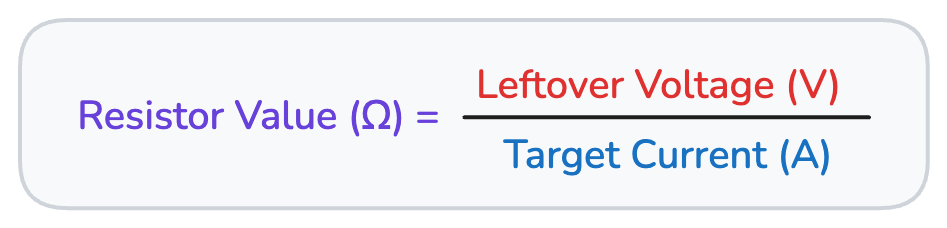
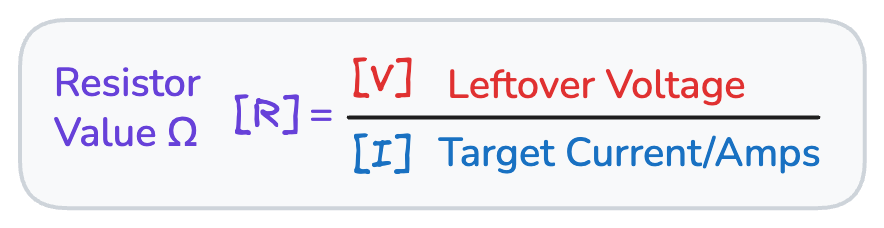
Lesson 3 Complete

diff --git a/Lesson-03.md b/Lesson-03.md
@@ -89,6 +89,8 @@ Your browser does not support the video tag.
 
 ![Wateerfall Analogy](images/L03/waterfall-explanation.png)
 
+> Note: the LED color change is for visual use. Refer to the LED Color Table in Step 6 for accurate color voltage.
+
 ### Step 4: Picking the Right Resistor (The "Goldilocks" Math)
 
 - **Concept**: The resistor’s job is to "soak up" the leftover voltage so the LEDs don't get too much and "pop."
@@ -114,34 +116,98 @@ Your browser does not support the video tag.
 
 - **Tinkercad Tip**: If you ever forget the standard amperage for an LED, you can "overload" the circuit in Tinkercad until the LED pops. If you hover your mouse over the "popped" LED, a small note will appear telling you: "Current through the LED is X, while absolute maximum is 20mA." That **20mA** is your "Magic Number."
 
+<video
+  src="video/L03/L03-TinkerCAD-Find-Component-Amperage.mp4"
+  controls
+  playsinline
+  preload="metadata"
+  width="100%"
+  style="max-width: 900px; height: auto; border-radius: 8px;">
+Your browser does not support the video tag.
+<a href="video/L03/L03-TinkerCAD-Find-Component-Amperage.mp4">Download the video</a>.
+</video>
+
 ### Step 6: Ohm’s Law (The Resistor Balance)
 
 - **Concept**: Now we use a simple equation to pick the perfect resistor so our LED gets exactly the flow it needs without popping.
 - **The Equation**:
-  Resistor Value (Ω) = Leftover Voltage (V) ÷ Target Current (A)
+  Ω Resistor Value (R) = Leftover Voltage (V) ÷ Target Current / Amps (I)
+
+  > The letter (I) is used instead of (A) or "Current/Amps" to mean **"Instensity"**
 
 ![Ohm's Law Finding the Resistance](images/L03/ohms-law-resistance.png)
 
-- **Experiment 1: The Single LED Test**
-  1. Build a circuit with a 9V battery, a 1kΩ resistor, and 1 LED.
-  2. Before you close the circuit to the ground, insert a **Multimeter** at the end.
-  3. Set the Multimeter to **Amperage (A)** mode.
-  4. **The Math**: We want 0.020A. With a 9V battery and a 2V LED, we have 7V left to soak up.
-     Calculation: 7V ÷ 0.020A = 350Ω.
-  5. Change your 1kΩ resistor to 350Ω. Your Multimeter should now read right around 20mA!
+- ### **Experiment 1: The Single LED Test**
 
-- **Experiment 2: The 4 LED Series Chain**
-  1. Clear your breadboard. Connect your 9V battery to a string of 4 LEDs in series (use jumper wires to connect the "negative" leg of one LED to the "positive" leg of the next).
-  2. Add the Multimeter after the 4th LED, then connect the other side of the Multimeter to the battery's Ground.
-  3. **The Math**: Each LED takes 2V, so 4 LEDs = 8V. Leftover: 9V - 8V = 1V.
-     Calculation: 1V ÷ 0.020A = 50Ω.
-  4. Place a 50Ω resistor between the Power (Positive) and the first LED.
-  5. Run the simulator. Your Multimeter should read 20mA!
+Build a circuit on a Small Breadboard with a 9V battery, a 1kΩ resistor, and 1 LED.
 
-- **Quick Recap**:
-  - **Look it up**: Always check your device's "Goldilocks" flow (20mA for LEDs).
-  - **Jump the Decimal**: Use the "Three-Jump Rule" to turn 20mA into 0.020A.
-  - **Find the Toll**: Subtract the LED voltage "tolls" from the battery voltage to find the leftover voltage the resistor needs to soak up.
-  - **Calculate**: Use the equation (Leftover Voltage ÷ 0.020) to find your perfect resistor value.
+<img src="images/L03/L03-Experiment-01-Components.png" style="width: 400px;"/>
 
-- **Scientist Challenge**: If you had a 9V battery and you wanted to light up **two** LEDs (each taking 2V), how much voltage does the resistor need to soak up? Calculate the resistor value needed, build it, and check your work with the Multimeter!
+#### Instructions
+
+1. Start by connecting the positive and negative ends of the 9v to the breadboard.
+2. Then add a 1kΩ (the default) resistor to the board.
+3. Connect the power to one end of the resistor.
+4. Add an LED after the resistor. Make sure to rotate the LED correctly so the resistor end is touching the "Anode".
+5. Then from the LED Cathode side insert a **Multimeter**.
+6. Finish by connecting the Multimeter to the ground to complete the circuit.
+
+**The Math**:
+
+- **Starting Voltage (V)**: 9v battery
+- **1 LED:**
+  - Takes 2v to run
+  - Allows for a max of 20mA or 0.020 (I)
+- **Goal:** Multimeter reads 20mA when measureing Amperage
+- **Formula:**
+  - **Leftover Voltage:** (9v - 7v) = 2v
+  - **Target Current/Amps:** 20mA or 0.020
+
+<video
+  src="video/L03/L03-Exp-01-Find-The-Resistance-to-Produce-20m.mp4"
+  controls
+  playsinline
+  preload="metadata"
+  width="100%"
+  style="max-width: 900px; height: auto; border-radius: 8px;">
+Your browser does not support the video tag.
+<a href="video/L03/L03-Exp-01-Find-The-Resistance-to-Produce-20m.mp4">Download the video</a>.
+</video>
+
+**Review:**
+The LED takes 2v for use from the 9v battery. The the resistor needs eat up the remaining 7 volts. We know the LED has a max of 20mA or 0.020 amps for max brightness. So, we divide `(7 / 0.020)` to get `350Ω`. This shows 19.7mA.
+
+- ### **Experiment 2: The 3 LED Series Chain**
+
+For this experience the goal is to keep the current circuit but add in 2 additional LED's while still displaying about 20mA on the multimeter. For this experiment set all **LED's to Red**. Otherwise, you will get a much lower return on amperage. The table below shows each LED's voltage requirement.
+
+| LED Color  | Typical _Forward Voltage_ (Vf) |
+| :--------- | :----------------------------- |
+| **Red**    | 1.8V – 2.2V                    |
+| **Orange** | 2.0V – 2.2V                    |
+| **Yellow** | 2.0V – 2.4V                    |
+| **Green**  | 2.9V – 3.5V                    |
+| **Blue**   | 3.0V – 3.5V                    |
+| **White**  | 3.0V – 3.5V                    |
+
+<video
+  src="video/L03/L03-Exp-02-LED-Series.mp4"
+  controls
+  playsinline
+  preload="metadata"
+  width="100%"
+  style="max-width: 900px; height: auto; border-radius: 8px;">
+Your browser does not support the video tag.
+<a href="video/L03/L03-Exp-02-LED-Series.mp4">Download the video</a>.
+</video>
+
+- ### **Experiment 3: Multi-Colored LED Series Chain**
+
+Take a look at the LED Color table. Change the colors around on the LED Chain Circuit from Experiment 2. Try swapping out the colors with different combinations to see if you can stay around 20mA. Apply the formula for finding the correct resistance. Have fun!
+
+## **Quick Recap**:
+
+- **Look it up**: Always check your device's "Goldilocks" flow (20mA for LEDs).
+- **Jump the Decimal**: Use the "Three-Jump Rule" to turn 20mA into 0.020A.
+- **Find the Toll**: Subtract the LED voltage "tolls" from the battery voltage to find the leftover voltage the resistor needs to soak up.
+- **Calculate**: Use the equation (Leftover Voltage ÷ 0.020) to find your perfect resistor value.